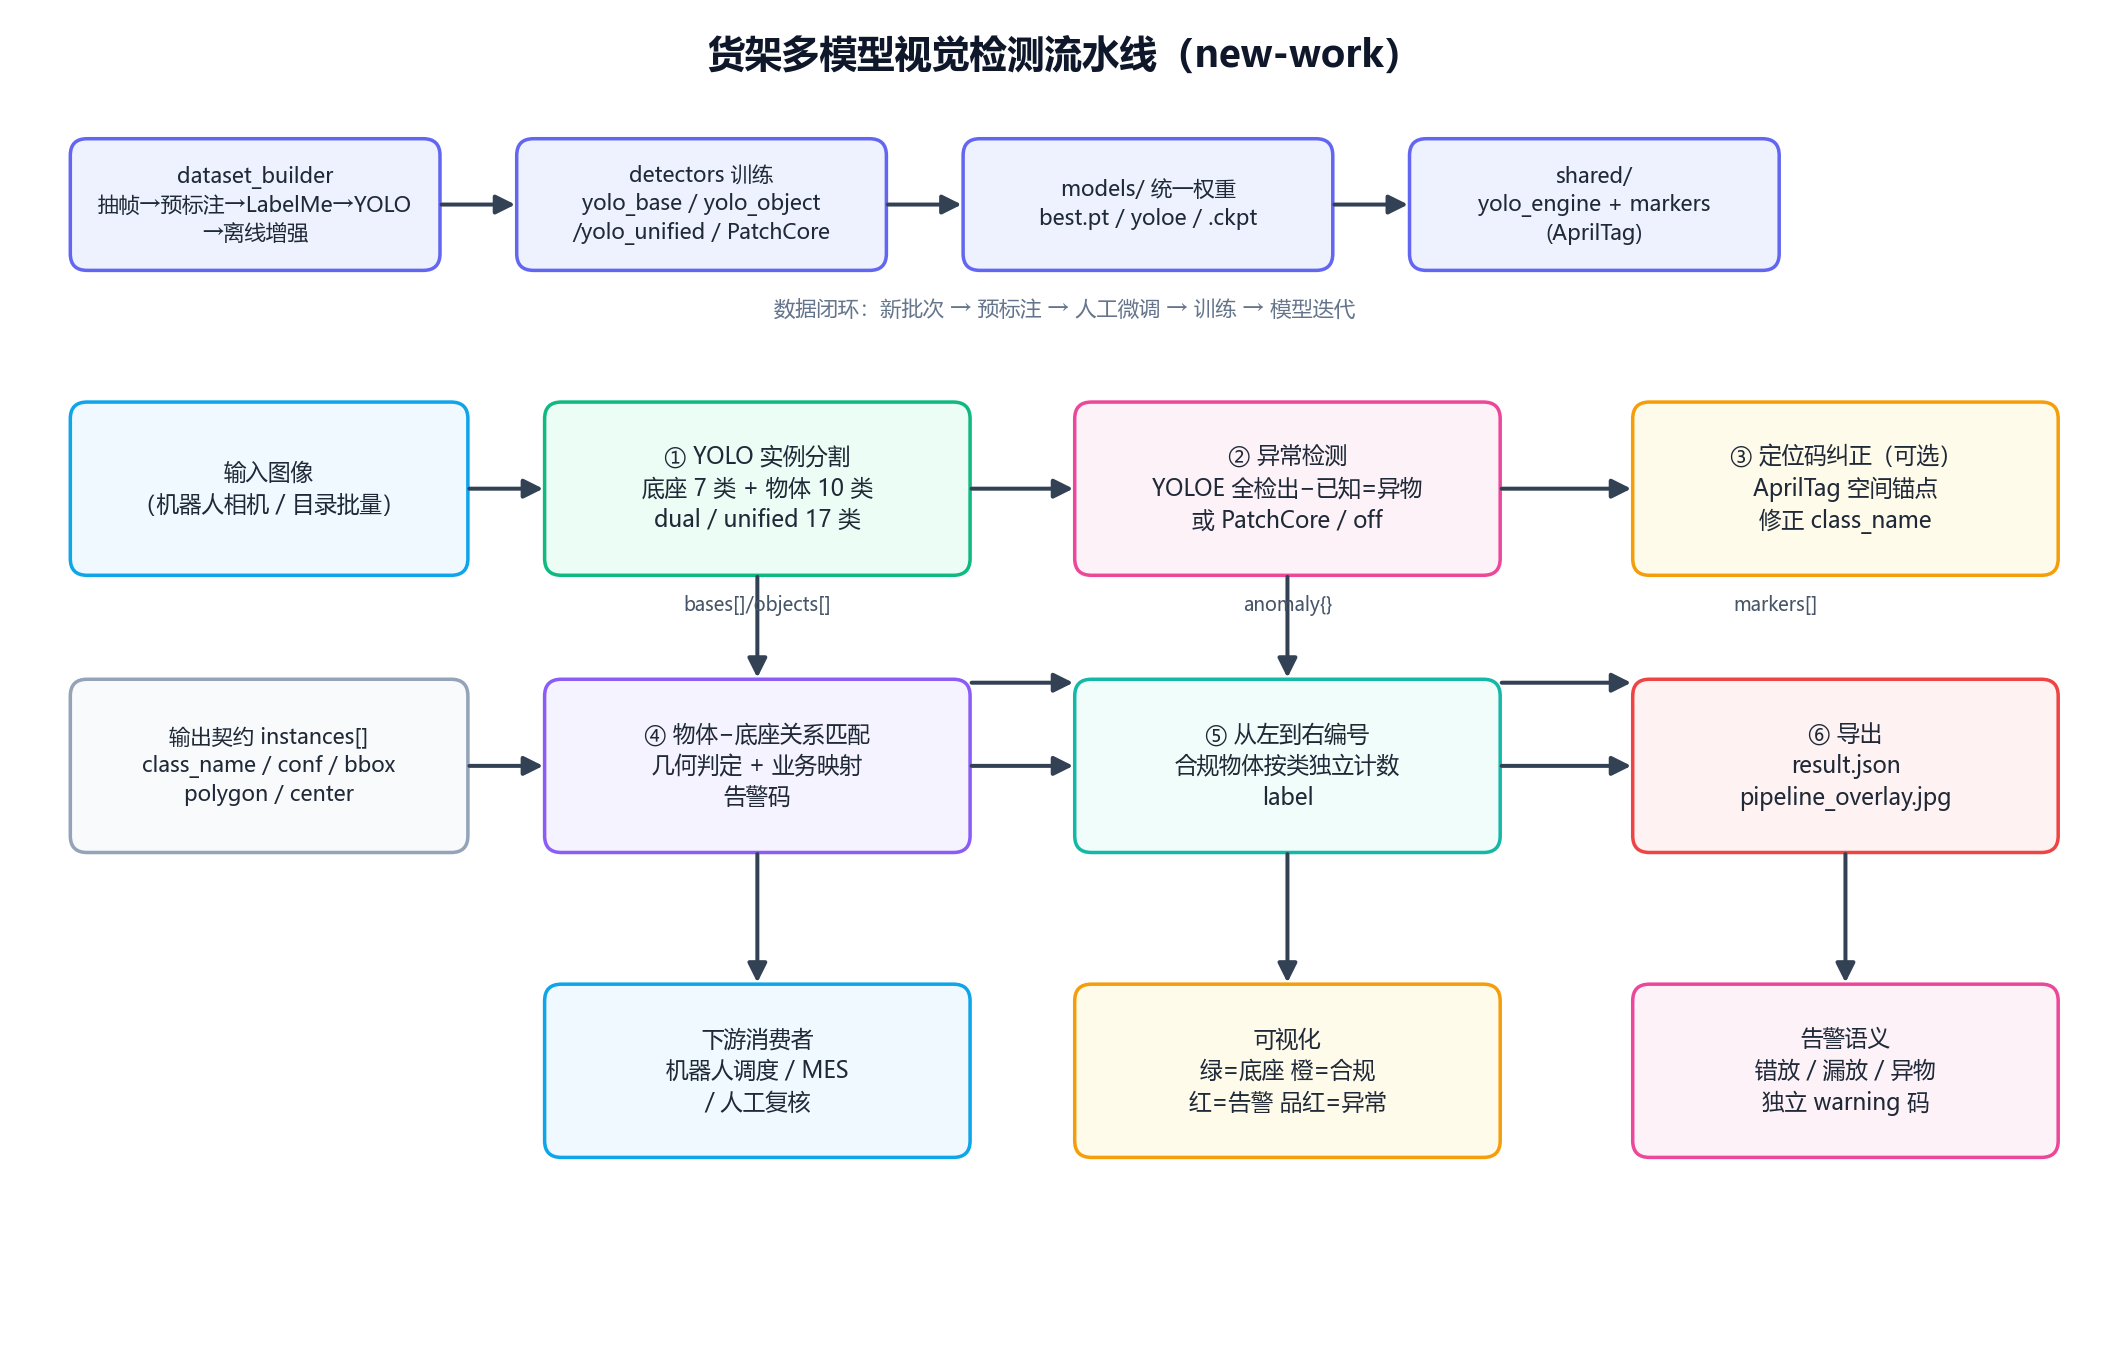
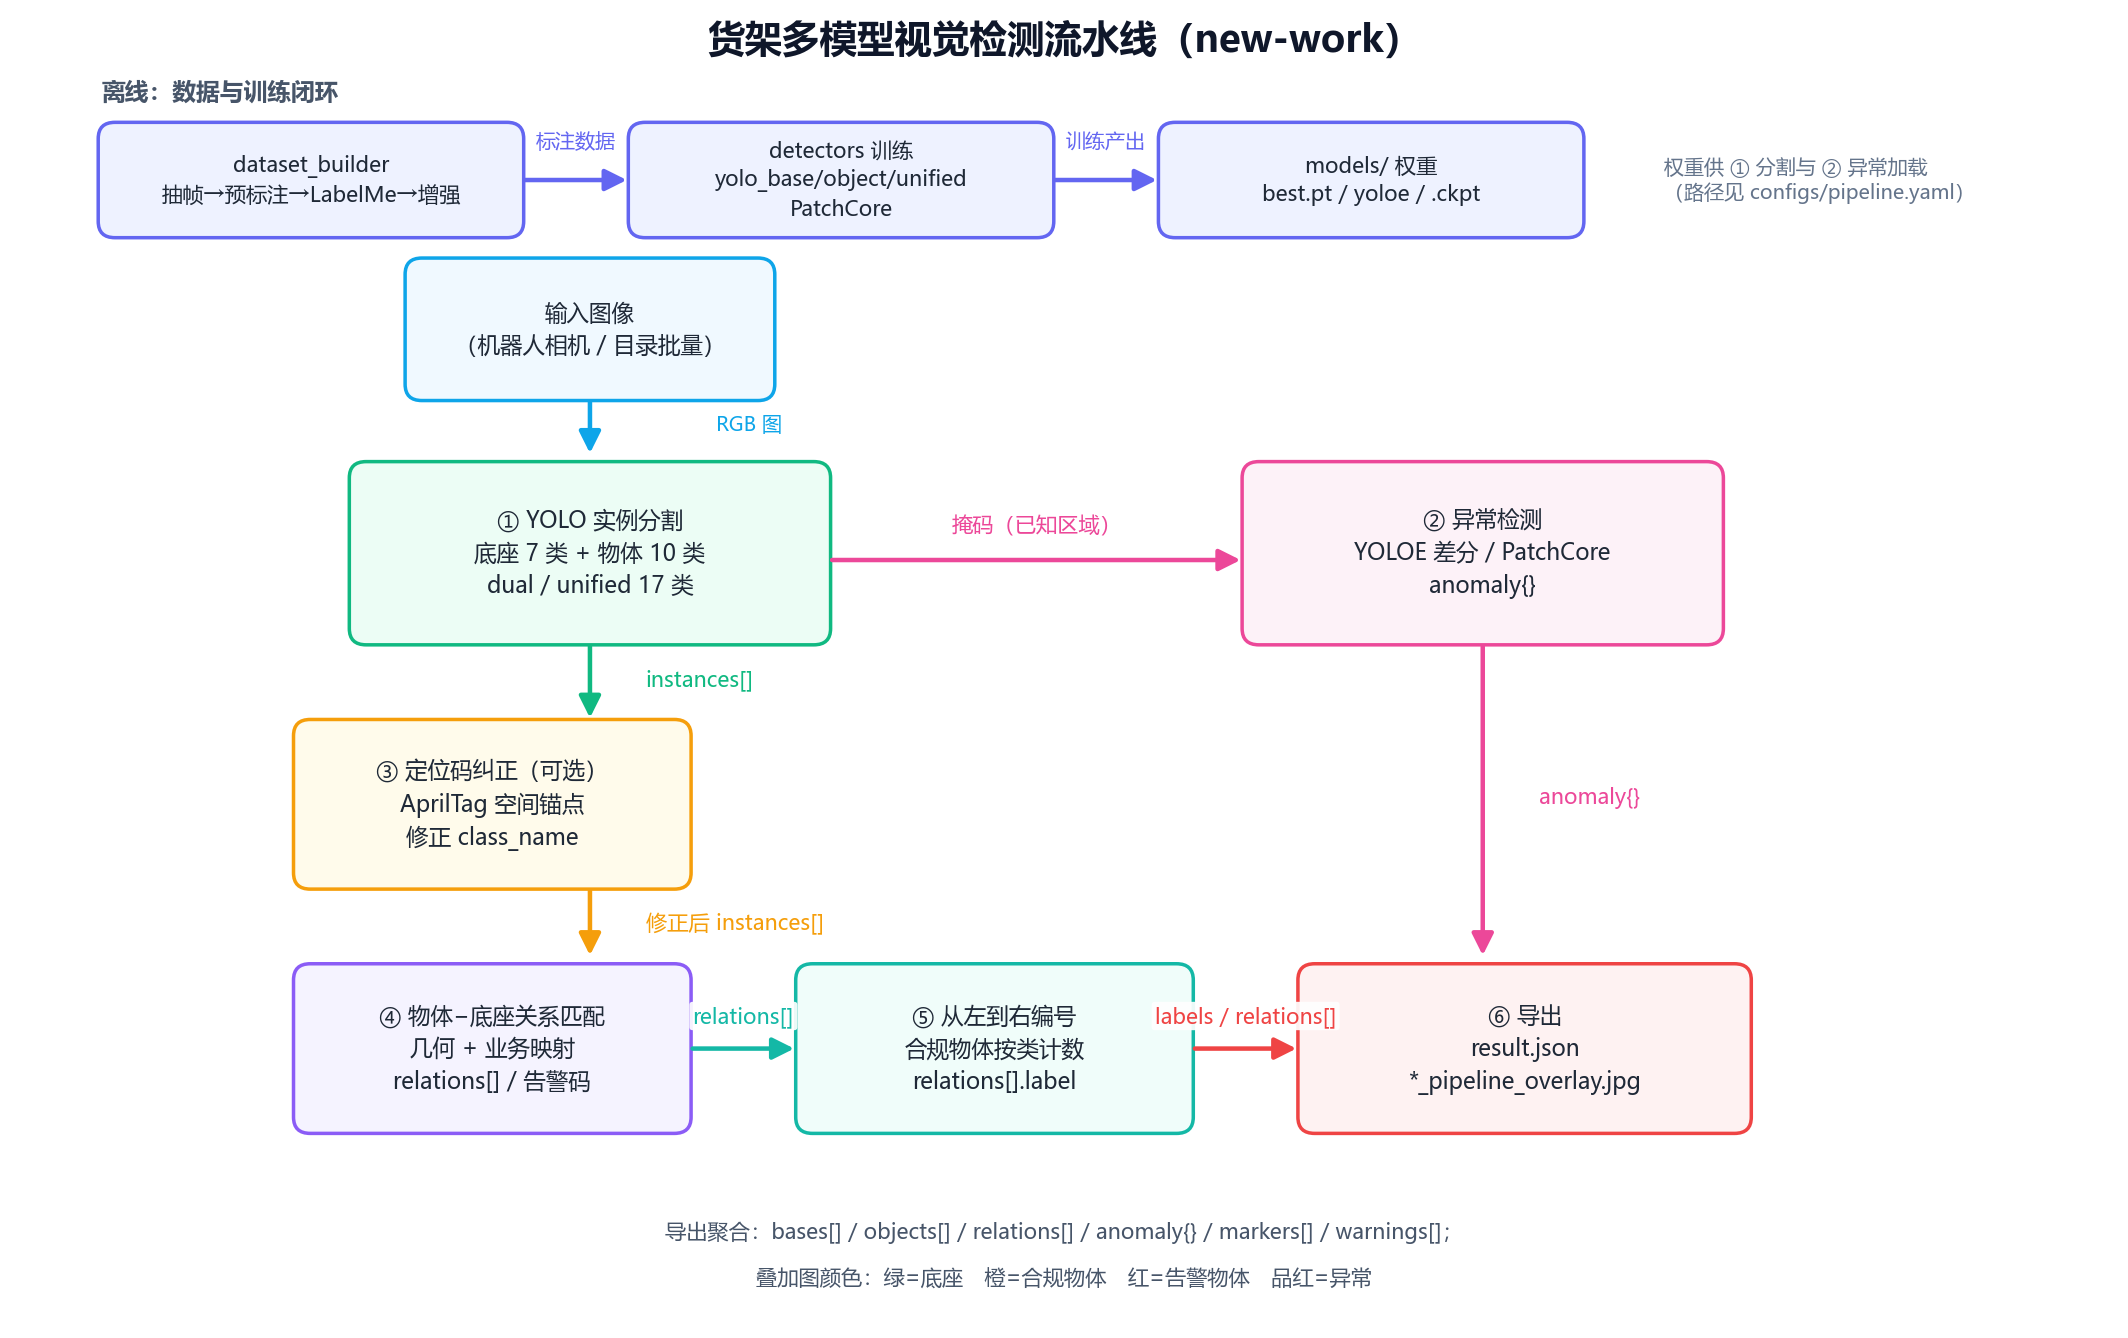
修正货架流水线图一的箭头指向并补充数据流说明
原示意图把异常检测错接到编号环节，且分支关系不清晰。重画为明确数据流：
instances[] 经定位码纠正进入关系匹配；YOLO 掩码进入异常检测；anomaly{} 与
编号后的 labels/relations[] 汇入导出；顶部保留离线数据/训练闭环。文章图 1
说明同步改为"箭头方向即数据流"。

Constraint: 博客图片需在静态站可读且无文字/盒子重叠（已程序化校验）
Rejected: 用 mermaid 内联图 | 主题无 mermaid 渲染插件，保持 PNG
Confidence: high
Scope-risk: narrow
Directive: 图一箭头语义以 README 的 S1→S2/S3→S4/S2→S6/S5→S6 为准
Tested: hexo clean && generate（268 文件）；布局校验无重叠；本地路由与图片存在
Not-tested: 线上 Pages 部署与线上图片（推送后验证）

diff --git a/source/_posts/2026-08-15-shelf-vision-pipeline.md b/source/_posts/2026-08-15-shelf-vision-pipeline.md
@@ -35,7 +35,7 @@ categories: [视觉计算]
 
 ![货架多模型视觉检测流水线](/images/projects/shelf-vision-pipeline/shelf-vision-pipeline.png)
 
-*图 1：根据仓库代码与 README 重绘的流水线结构。它说明系统如何组织，不表示某次运行的实验效果。*
+*图 1：根据仓库代码与 README 重绘的流水线结构，箭头方向即数据流：`instances[]` 经定位码纠正进入关系匹配；YOLO 掩码进入异常检测；`anomaly{}` 与编号后的 `labels/relations[]` 汇入导出。它说明系统如何组织，不表示某次运行的实验效果。*
 
 ## 一、为什么是“多模型 + 规则”，而不是一个万能模型
 
